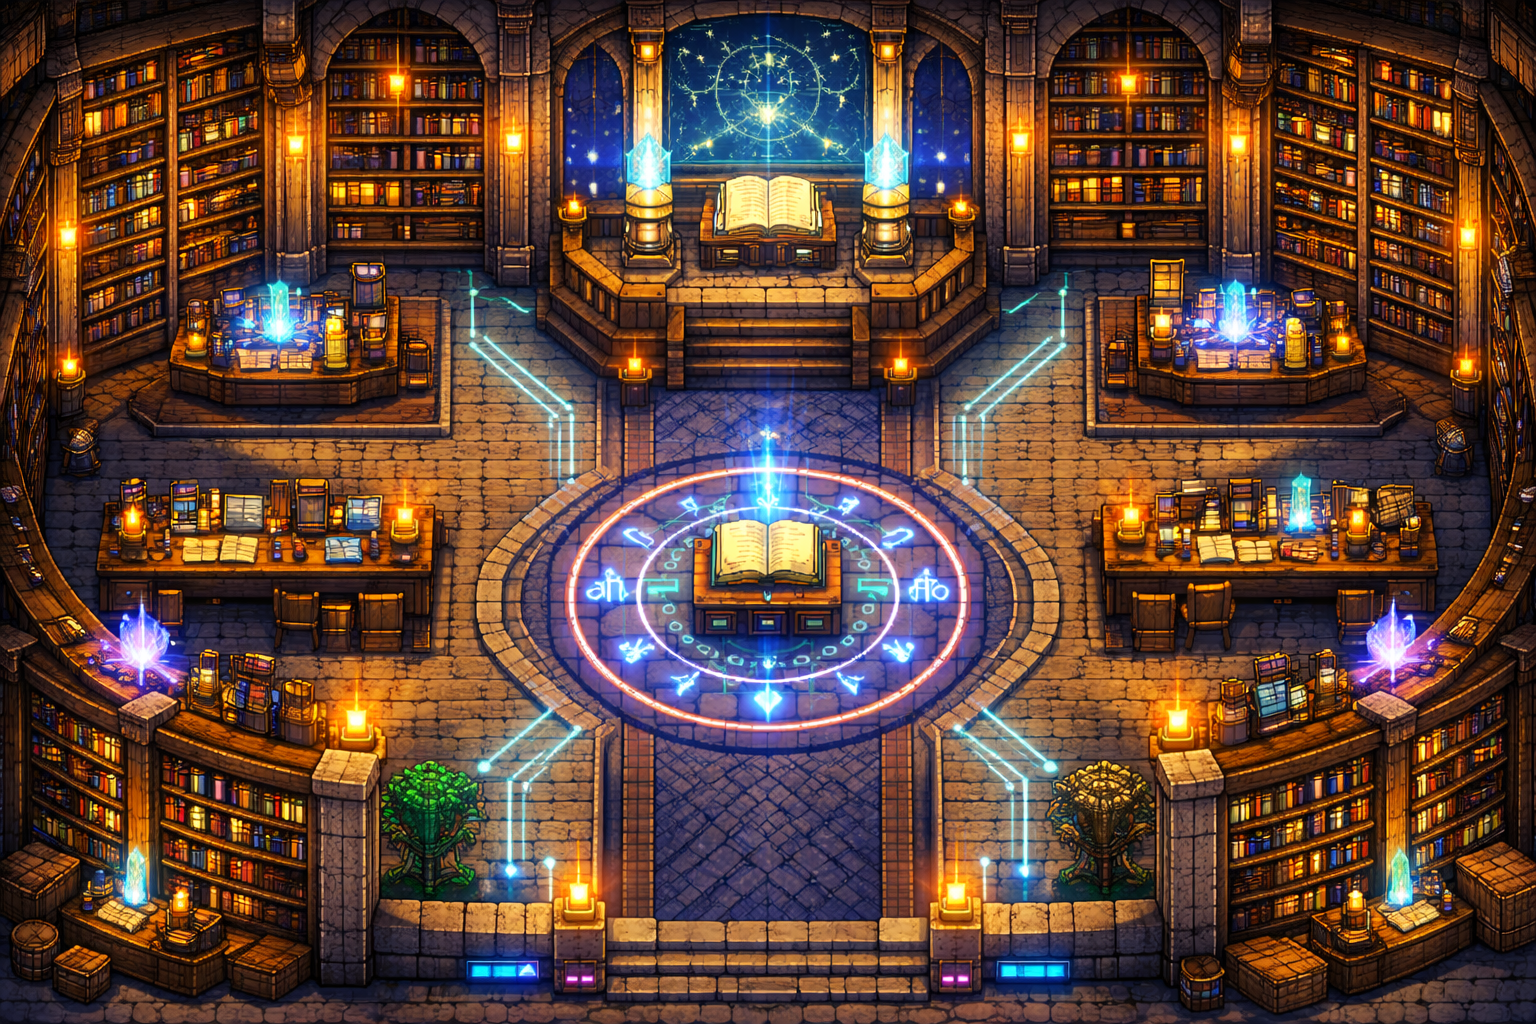
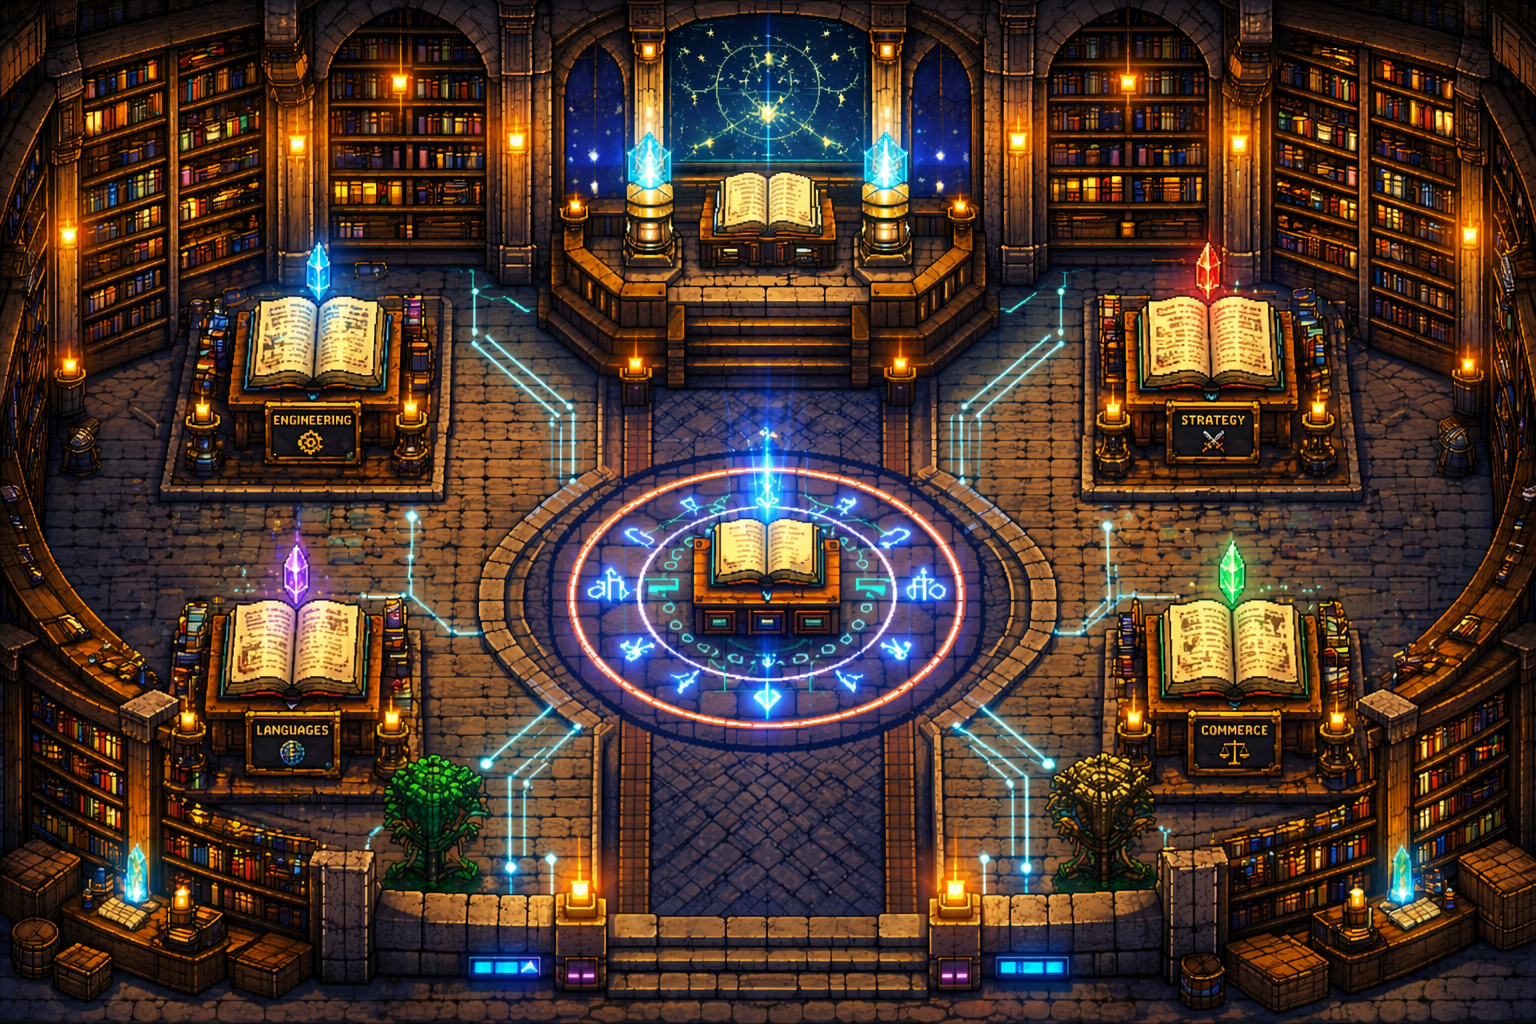
academy: new interior art + fix video completion ✓ not showing
Two-in-one.

1. Swap public/academy-interior.png for the new user-supplied 1536x1024
   image (same dims, no scene-config changes).

2. Fix the "video watched but ✓ never appears" bug in VideoLessonViewer:
   - On STATE_ENDED, call markLessonCompleted unconditionally — sidesteps
     the duration-threshold path which could silently no-op if
     lessons.duration_sec hadn't been captured yet.
   - After any upsert that crosses the 80% threshold (and once per
     mount), call router.refresh() so the left-rail checkmark appears
     without a manual page reload.
   - STATE_PAUSED still only does a single progress upsert (no refresh) —
     pausing mid-video shouldn't re-render the whole page.

diff --git a/apps/web/app/academy/[courseId]/_components/VideoLessonViewer.tsx b/apps/web/app/academy/[courseId]/_components/VideoLessonViewer.tsx
@@ -1,8 +1,14 @@
 'use client';
 
+import { useRouter } from 'next/navigation';
 import { useEffect, useRef, useState } from 'react';
 
-import { flushLessonProgress, setLessonDurationIfNull, upsertLessonProgress } from '../actions';
+import {
+  flushLessonProgress,
+  markLessonCompleted,
+  setLessonDurationIfNull,
+  upsertLessonProgress,
+} from '../actions';
 
 // YouTube IFrame API player-state codes.
 const STATE_ENDED = 0;
@@ -68,11 +74,13 @@ type Props = {
 };
 
 export function VideoLessonViewer({ initial }: Props): React.JSX.Element {
+  const router = useRouter();
   const hostRef = useRef<HTMLDivElement>(null);
   const playerRef = useRef<YTPlayer | null>(null);
   const pollTimerRef = useRef<number | null>(null);
   const durationRef = useRef<number | null>(initial.durationSec);
   const lastWatchedRef = useRef<number>(initial.startSec);
+  const markedCompleteRef = useRef<boolean>(false);
   const [error, setError] = useState<string | null>(null);
 
   useEffect(() => {
@@ -81,7 +89,36 @@ export function VideoLessonViewer({ initial }: Props): React.JSX.Element {
     const sendProgress = async (watched: number): Promise<void> => {
       lastWatchedRef.current = watched;
       const result = await upsertLessonProgress(initial.lessonId, watched, durationRef.current);
-      if (!result.ok) setError(result.error);
+      if (!result.ok) {
+        setError(result.error);
+        return;
+      }
+      // If the server-computed completion just flipped to true (watched
+      // crossed the 80% threshold), refresh so the left-rail ✓ updates
+      // without forcing the user to reload.
+      if (
+        !markedCompleteRef.current &&
+        durationRef.current != null &&
+        durationRef.current > 0 &&
+        watched >= 0.8 * durationRef.current
+      ) {
+        markedCompleteRef.current = true;
+        router.refresh();
+      }
+    };
+
+    const forceComplete = async (): Promise<void> => {
+      if (markedCompleteRef.current) return;
+      markedCompleteRef.current = true;
+      // markLessonCompleted is duration-independent; used when the video
+      // hits STATE_ENDED so we don't rely on the threshold arithmetic.
+      const result = await markLessonCompleted(initial.lessonId);
+      if (!result.ok) {
+        markedCompleteRef.current = false;
+        setError(result.error);
+      } else {
+        router.refresh();
+      }
     };
 
     const startPolling = (player: YTPlayer): void => {
@@ -122,6 +159,9 @@ export function VideoLessonViewer({ initial }: Props): React.JSX.Element {
           onReady: async (event) => {
             playerRef.current = event.target;
             // Capture duration on first play if we don't know it yet.
+            // Without this, the 80% threshold can't be evaluated during
+            // playback, so completion would never fire from the polling
+            // path. STATE_ENDED's forceComplete() is the safety net.
             if (durationRef.current === null) {
               const reported = Math.round(event.target.getDuration());
               if (reported > 0) {
@@ -134,9 +174,16 @@ export function VideoLessonViewer({ initial }: Props): React.JSX.Element {
           onStateChange: (event) => {
             if (event.data === STATE_PLAYING) {
               startPolling(event.target);
-            } else if (event.data === STATE_PAUSED || event.data === STATE_ENDED) {
+            } else if (event.data === STATE_PAUSED) {
               stopPolling();
               void sendProgress(event.target.getCurrentTime());
+            } else if (event.data === STATE_ENDED) {
+              stopPolling();
+              // Natural end-of-video → unconditional completion, regardless
+              // of whether duration_sec was captured in time to cross the
+              // 80% threshold. Also refreshes the UI so the ✓ shows.
+              void sendProgress(event.target.getCurrentTime());
+              void forceComplete();
             }
           },
         },
